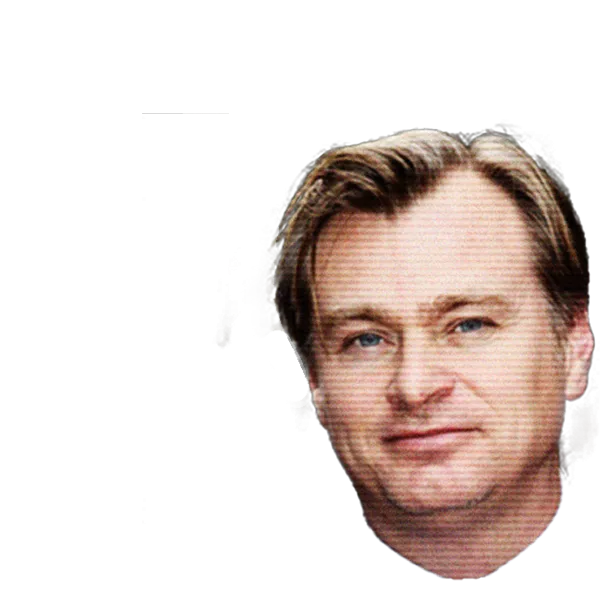
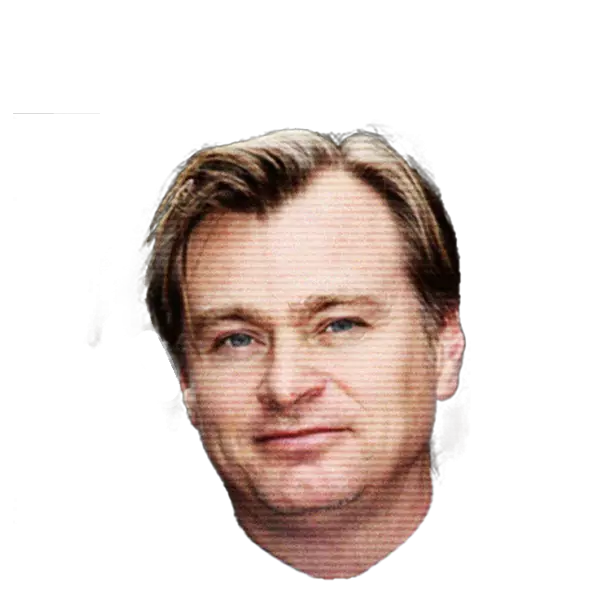
react1 element complete

diff --git a/src/js/Components/Element1.jsx b/src/js/Components/Element1.jsx
@@ -14,7 +14,6 @@ const HandleLeftClick = () => {
   }
   const introImage = document.querySelector(`.intro-image`);
   const introImageWebp = document.querySelector(`.intro-webp`);
-  console.log(introImage);
   introImage.src = `${imgPath}/${imageCount}.png`;
   introImageWebp.srcset = `${imgPath}/${imageCount}.webp`;
   checkMarking(oldImageCount);
@@ -35,8 +34,6 @@ const HandleRightClick = () => {
   checkMarking(oldImageCount);
 };
 const checkMarking = oldImageCount => {
-  console.log(oldImageCount);
-
   if (imageCount === 1) {
     document.querySelector(`.markering5`).classList.remove(`markering-intro`);
   } else if (imageCount === 5) {
@@ -70,13 +67,20 @@ const Element1 = () => {
       <div className='introduction-image-container'>
         <picture>
           <source className='intro-webp' type='image/webp' srcSet='/assets/img/intro/default.webp' />
-          <img className='intro-image' src='/assets/img/intro/default.png' width='550' height='550' alt='Chrisopher Nolan' />
+          <img className='intro-image' src='/assets/img/intro/default.png' width='400' height='400' alt='Chrisopher Nolan' />
         </picture>
+        <div className='buttonContainer'>
+          <picture className='button1' onClick={HandleLeftClick}>
+            <source  type='image/webp' srcSet='/assets/img/arrow.webp' />
+            <img src='/assets/img/arrow.png' width='74' height='42' alt='Arrow' />
+          </picture>
+          <picture className='button2' onClick={HandleRightClick}>
+            <source  type='image/webp' srcSet='/assets/img/arrow.webp' />
+            <img src='/assets/img/arrow.png' width='74' height='42' alt='Arrow' />
+          </picture>
+        </div>
       </div>
-      <div className='buttonContainer'>
-        <div className='button1' onClick={HandleLeftClick}></div>
-        <div className='button2' onClick={HandleRightClick}></div>
-      </div>
+
     </article>
   );
 };

diff --git a/src/js/App.js b/src/js/App.js
@@ -3,11 +3,6 @@ import ReactDOM from 'react-dom';
 import Test from './Components/Test.jsx';  // eslint-disable-line
 import Element1 from './Components/Element1.jsx';  // eslint-disable-line
 
-const img = document.querySelector(`.intro-image`);
-const imgWebp = document.querySelector(`.intro-webp`);
-let imageCount = 0;
-let firstTime = false;
-
 const cornerImage = document.querySelector(`.corner-image`);
 
 const tm2article1 = document.querySelector(`.tm2-article1`);
@@ -26,7 +21,6 @@ let outroCount = 1;
 const init = () => {
   setupLogs();
   setupListeners();
-  setupIntroductionTimer();
   setupOutroTimer();
   setupReactElements();
   if (/Android|webOS|iPhone|iPad|iPod|BlackBerry|BB|PlayBook|IEMobile|Windows Phone|Kindle|Silk|Opera Mini/i.test(navigator.userAgent) || window.innerWidth <= 1150) {
@@ -43,11 +37,6 @@ const setupLogs = () => {
 const setupListeners = () => {
   window.addEventListener(`scroll`, scrollCorner);
   window.addEventListener(`scroll`, tm2scrollEffect);
-};
-
-const setupIntroductionTimer = () => {
-  //const interval = 1000; //miliseconden
-  //setInterval(changeImage, interval);
 };
 
 const setupOutroTimer = () => {
@@ -125,27 +114,6 @@ const scrollCorner = () => {
     cornerImage.src = `/assets/img/corners/corner_4.png`;
   }
 
-};
-
-const changeImage = () => {
-  const imgPath = `assets/img/intro/`;
-  const oldImageCount = imageCount;
-  if (imageCount >= 5) {
-    imageCount = 0;
-  }
-  //console.log(`${oldImageCount} old`);
-  imageCount ++;
-  //console.log(`${imageCount} new`);
-  img.src = `${imgPath}${imageCount}.png`;
-  imgWebp.srcset = `${imgPath}${imageCount}.webp`;
-
-  if (imageCount !== 0) {
-    document.querySelector(`.markering${imageCount}`).classList.add(`markering-intro`);
-    if (firstTime) {
-      document.querySelector(`.markering${oldImageCount}`).classList.remove(`markering-intro`);
-    }
-  }
-  firstTime = true;
 };
 
 

diff --git a/src/css/style.css b/src/css/style.css
@@ -146,7 +146,7 @@ main {
 }
 
 .introduction {
-  margin-top: 20rem;
+  margin-top: 10rem;
   width: 100%;
   display: flex;
   justify-content: center;
@@ -179,17 +179,39 @@ main {
 }
 
 .introduction-image-container {
-
+  width: 100%;
+  display: flex;
+  flex-direction: column;
+  align-items: center;
+  justify-content: center;
 }
 
 .buttonContainer {
   position: absolute;
+  width: 43rem;
+  display: flex;
+  justify-content: space-between;
 
   & div {
     display: flex;
     width: 10rem;
     height: 10rem;
     background-color: red;
+  }
+
+  &:hover {
+    cursor: pointer;
+  }
+}
+
+.button2 {
+
+  & img {
+    transform: scaleX(-1);
+  }
+
+  & source {
+    transform: scaleX(-1);
   }
 }
 
@@ -530,15 +552,6 @@ footer {
     font-size: 1.4rem;
     width: 40rem;
   }
-
-  .introduction-image-container {
-
-    & img {
-      width: 50vw;
-      height: auto;
-      margin-left: -50rem;
-    }
-  }
 }
 
 @media only screen and (max-width: 960px) {
@@ -568,16 +581,19 @@ footer {
       width: 100vw;
       height: auto;
       box-shadow: var(--box-shadow);
+      border-bottom: .7rem solid black;
     }
   }
 
   .introduction {
     height: 100%;
-    margin-top: 4rem;
+    margin-top: -7rem;
+    z-index: -10;
   }
 
   .introduction-container {
     flex-direction: column;
+    margin-top: 4rem;
 
     & img {
       width: 50vw;
